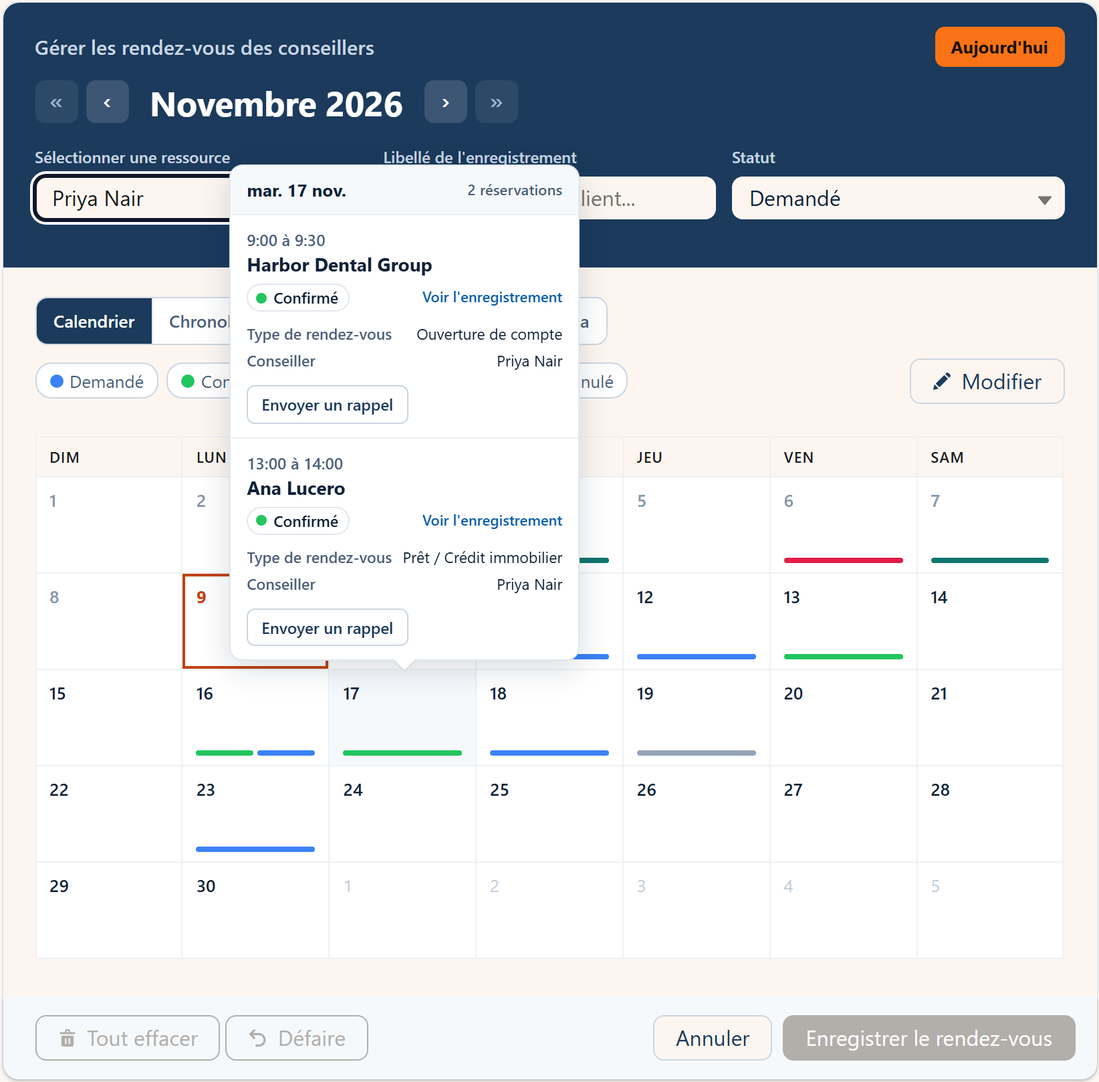
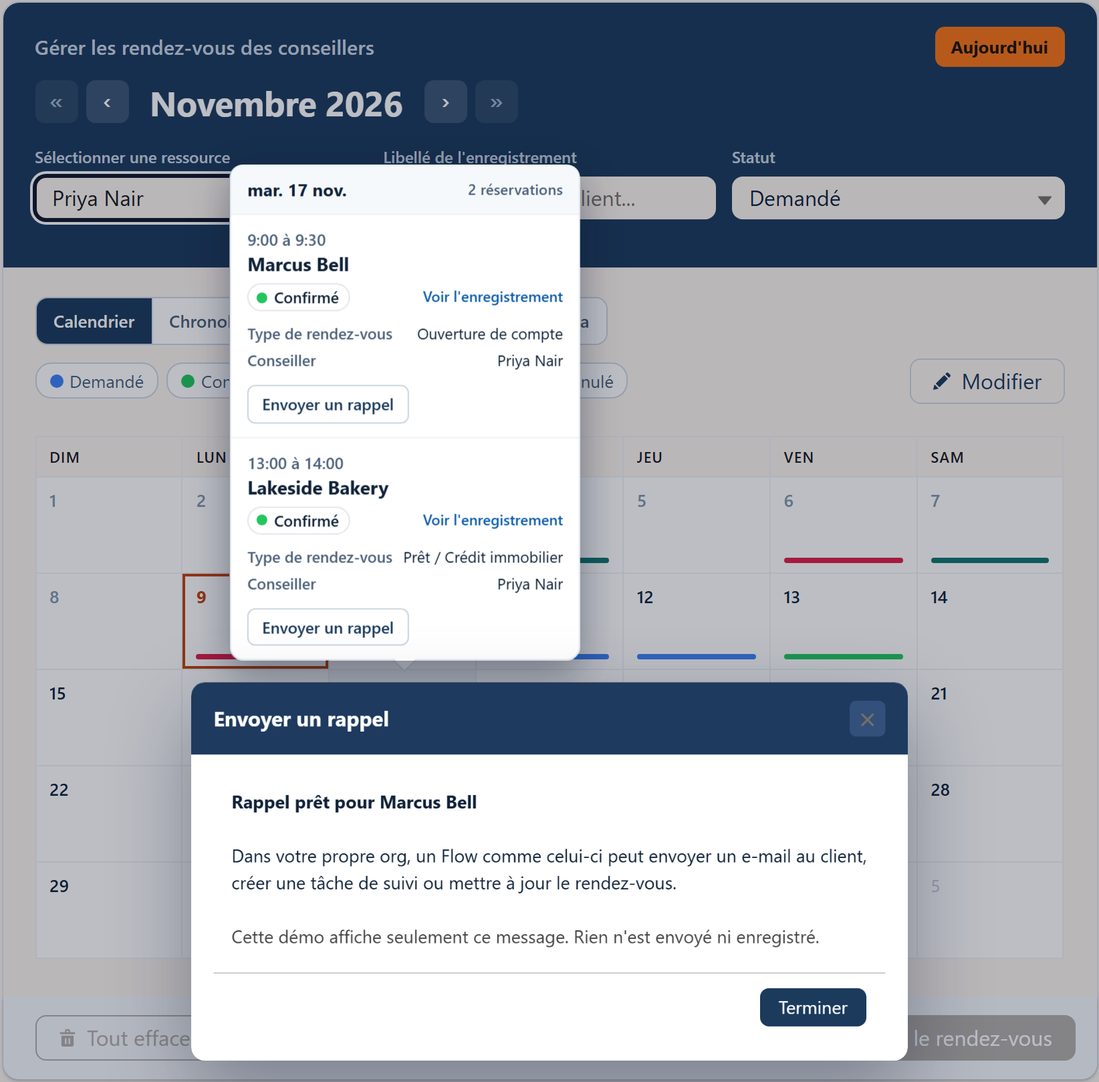
Home carousel: Custom buttons slide shows the button and the pop-up it opens
Slide 7 now shows the hover card's Send a reminder buttons and, below it, the
pop-up running the demo Flow, in all 9 languages with no English text. The alt
text and image caption mention the pop-up (all 9 languages).

diff --git a/index.html b/index.html
@@ -125,7 +125,7 @@
             {"@type": "ImageObject", "contentUrl": "https://multidatepick.com/images/views/salesforce-calendar-booking-form.png", "caption": "Salesforce booking form pop-up on a public booking page: after a guest picks an advisor, a day and a free time, Request Appointment opens a form for client name, email, meeting type and the topic to discuss", "creditText": "MultiDatePick", "creator": {"@type": "Organization", "name": "MultiDatePick"}},
             {"@type": "ImageObject", "contentUrl": "https://multidatepick.com/images/views/salesforce-calendar-edit-mode.png", "caption": "MultiDatePick Edit Mode on a Salesforce booking calendar: three appointments on a busy day picked in the panel, with controls to change their status, date, time or advisor together", "creditText": "MultiDatePick", "creator": {"@type": "Organization", "name": "MultiDatePick"}},
             {"@type": "ImageObject", "contentUrl": "https://multidatepick.com/images/views/salesforce-calendar-custom-branding.png", "caption": "Salesforce booking calendar with custom branding: the ACME Financial logo and name on a top band over a downtown skyline photo, green and amber brand colors, and an advisor's month of bookings", "creditText": "MultiDatePick", "creator": {"@type": "Organization", "name": "MultiDatePick"}},
-            {"@type": "ImageObject", "contentUrl": "https://multidatepick.com/images/views/salesforce-calendar-custom-buttons.png", "caption": "Salesforce booking calendar with a custom button on each booking: the hover card for an advisor's busy day lists two client appointments, each with a Send a reminder button that runs a Flow the admin picked in the Setup Wizard", "creditText": "MultiDatePick", "creator": {"@type": "Organization", "name": "MultiDatePick"}},
+            {"@type": "ImageObject", "contentUrl": "https://multidatepick.com/images/views/salesforce-calendar-custom-buttons.png", "caption": "Salesforce booking calendar with a custom button on each booking: the hover card for an advisor's busy day lists two client appointments, each with a Send a reminder button, and the pop-up it opens running the Flow the admin picked in the Setup Wizard", "creditText": "MultiDatePick", "creator": {"@type": "Organization", "name": "MultiDatePick"}},
             {"@type": "ImageObject", "contentUrl": "https://multidatepick.com/images/components/salesforce-multi-date-picker-demo.gif", "thumbnailUrl": "https://multidatepick.com/images/components/salesforce-multi-date-picker-demo-poster.png", "caption": "Animated demo of the MultiDatePick Dates component in Salesforce: naming a time-off request, dragging across three days of Thanksgiving week, adding the Friday with one click, and saving all four days at once", "creditText": "MultiDatePick", "creator": {"@type": "Organization", "name": "MultiDatePick"}},
             {"@type": "ImageObject", "contentUrl": "https://multidatepick.com/images/components/salesforce-date-time-scheduling-demo.gif", "thumbnailUrl": "https://multidatepick.com/images/components/salesforce-date-time-scheduling-demo-poster.png", "caption": "Animated demo of the MultiDatePick Dates & Times component in Salesforce: naming a New Hire Onboarding schedule, dragging across Monday to Thursday, dragging 09:00 to 12:00 in the shared time grid, and saving one shift per day", "creditText": "MultiDatePick", "creator": {"@type": "Organization", "name": "MultiDatePick"}},
             {"@type": "ImageObject", "contentUrl": "https://multidatepick.com/images/multidatepick-booking-demo.gif", "thumbnailUrl": "https://multidatepick.com/images/multidatepick-booking-demo-poster.png", "caption": "Salesforce resource booking demo: choosing a projector, picking a day and two open 30 minute slots, and booking them", "creditText": "MultiDatePick", "creator": {"@type": "Organization", "name": "MultiDatePick"}},
@@ -405,7 +405,7 @@
                                 <p class="mdp-carousel__caption"><strong>Edit Mode</strong>: pick several bookings and change their status, date, time or advisor in one step.</p>
                             </li>
                             <li class="mdp-carousel__slide" aria-roledescription="slide" aria-label="7 of 8: Custom buttons">
-                                <img src="images/views/salesforce-calendar-custom-buttons.png" alt="Salesforce booking calendar with a custom button on each booking: the hover card for an advisor's busy day lists two client appointments, each with a Send a reminder button that runs a Flow the admin picked in the Setup Wizard" width="1644" height="1618" loading="lazy" decoding="async" data-zoomable>
+                                <img src="images/views/salesforce-calendar-custom-buttons.png" alt="Salesforce booking calendar with a custom button on each booking: the hover card for an advisor's busy day lists two client appointments, each with a Send a reminder button, and the pop-up it opens running the Flow the admin picked in the Setup Wizard" width="1644" height="1618" loading="lazy" decoding="async" data-zoomable>
                                 <p class="mdp-carousel__caption"><strong>Custom buttons</strong>: run your own Flow from any booking with a button you add in the Setup Wizard, no code needed.</p>
                             </li>
                             <li class="mdp-carousel__slide" aria-roledescription="slide" aria-label="8 of 8: Utilization">

diff --git a/hi/index.html b/hi/index.html
@@ -247,7 +247,7 @@
             {
                 "@type": "ImageObject",
                 "contentUrl": "https://multidatepick.com/images/hi/views/salesforce-calendar-custom-buttons.png",
-                "caption": "कस्टम बटन वाला Salesforce बुकिंग कैलेंडर: एक व्यस्त दिन के होवर कार्ड में क्लाइंट के दो अपॉइंटमेंट, हर एक पर रिमाइंडर भेजें बटन जो Setup Wizard में चुना गया Flow चलाता है",
+                "caption": "कस्टम बटन वाला Salesforce बुकिंग कैलेंडर: एक व्यस्त दिन के होवर कार्ड में क्लाइंट के दो अपॉइंटमेंट, हर एक पर रिमाइंडर भेजें बटन, और उसे दबाने पर खुलने वाला पॉप-अप Setup Wizard में चुना गया Flow चलाता है",
                 "creditText": "MultiDatePick",
                 "creator": {
                     "@type": "Organization",
@@ -687,7 +687,7 @@
                                 <p class="mdp-carousel__caption"><strong>संपादन मोड</strong>: कई बुकिंग चुनें और उनकी स्थिति, तारीख, समय या सलाहकार एक ही कदम में बदलें।</p>
                             </li>
                             <li class="mdp-carousel__slide" aria-roledescription="स्लाइड" aria-label="8 में से 7: कस्टम बटन">
-                                <img src="/images/hi/views/salesforce-calendar-custom-buttons.png" alt="कस्टम बटन वाला Salesforce बुकिंग कैलेंडर: एक व्यस्त दिन के होवर कार्ड में क्लाइंट के दो अपॉइंटमेंट, हर एक पर रिमाइंडर भेजें बटन जो Setup Wizard में चुना गया Flow चलाता है" width="1644" height="1618" loading="lazy" decoding="async" data-zoomable>
+                                <img src="/images/hi/views/salesforce-calendar-custom-buttons.png" alt="कस्टम बटन वाला Salesforce बुकिंग कैलेंडर: एक व्यस्त दिन के होवर कार्ड में क्लाइंट के दो अपॉइंटमेंट, हर एक पर रिमाइंडर भेजें बटन, और उसे दबाने पर खुलने वाला पॉप-अप Setup Wizard में चुना गया Flow चलाता है" width="1644" height="1618" loading="lazy" decoding="async" data-zoomable>
                                 <p class="mdp-carousel__caption"><strong>कस्टम बटन</strong>: किसी भी बुकिंग से अपना Flow चलाएँ, Setup Wizard में जोड़े गए बटन से, बिना कोड।</p>
                             </li>
                             <li class="mdp-carousel__slide" aria-roledescription="स्लाइड" aria-label="8 में से 8: उपयोग">

diff --git a/ja/index.html b/ja/index.html
@@ -247,7 +247,7 @@
             {
                 "@type": "ImageObject",
                 "contentUrl": "https://multidatepick.com/images/ja/views/salesforce-calendar-custom-buttons.png",
-                "caption": "カスタムボタン付きの Salesforce 予約カレンダー: 予定の多い日のホバーカードに 2 件のクライアント予約が並び、それぞれにセットアップウィザードで選んだフローを実行する「リマインダーを送信」ボタンがある",
+                "caption": "カスタムボタン付きの Salesforce 予約カレンダー: 予定の多い日のホバーカードに 2 件のクライアント予約が並び、それぞれに「リマインダーを送信」ボタンがある。押すとポップアップが開き、セットアップウィザードで選んだフローを実行する",
                 "creditText": "MultiDatePick",
                 "creator": {
                     "@type": "Organization",
@@ -687,7 +687,7 @@
                                 <p class="mdp-carousel__caption"><strong>編集モード</strong>: 複数の予約を選び、状況、日付、時刻、アドバイザーを一度にまとめて変更できます。</p>
                             </li>
                             <li class="mdp-carousel__slide" aria-roledescription="スライド" aria-label="7/8: カスタムボタン">
-                                <img src="/images/ja/views/salesforce-calendar-custom-buttons.png" alt="カスタムボタン付きの Salesforce 予約カレンダー: 予定の多い日のホバーカードに 2 件のクライアント予約が並び、それぞれにセットアップウィザードで選んだフローを実行する「リマインダーを送信」ボタンがある" width="1644" height="1618" loading="lazy" decoding="async" data-zoomable>
+                                <img src="/images/ja/views/salesforce-calendar-custom-buttons.png" alt="カスタムボタン付きの Salesforce 予約カレンダー: 予定の多い日のホバーカードに 2 件のクライアント予約が並び、それぞれに「リマインダーを送信」ボタンがある。押すとポップアップが開き、セットアップウィザードで選んだフローを実行する" width="1644" height="1618" loading="lazy" decoding="async" data-zoomable>
                                 <p class="mdp-carousel__caption"><strong>カスタムボタン</strong>: どの予約からでも自社のフローを実行。ボタンはセットアップウィザードからノーコードで追加できます。</p>
                             </li>
                             <li class="mdp-carousel__slide" aria-roledescription="スライド" aria-label="8/8: 稼働率">

diff --git a/fr/index.html b/fr/index.html
@@ -247,7 +247,7 @@
             {
                 "@type": "ImageObject",
                 "contentUrl": "https://multidatepick.com/images/fr/views/calendrier-salesforce-boutons-personnalises.png",
-                "caption": "Calendrier de réservation Salesforce avec des boutons personnalisés sur chaque rendez-vous : la carte au survol d'une journée chargée affiche deux rendez-vous clients, chacun avec un bouton Envoyer un rappel qui lance un flux choisi dans l'assistant de configuration",
+                "caption": "Calendrier de réservation Salesforce avec des boutons personnalisés sur chaque rendez-vous : la carte au survol d'une journée chargée affiche deux rendez-vous clients, chacun avec un bouton Envoyer un rappel, et la fenêtre qu'il ouvre lance le flux choisi dans l'assistant de configuration",
                 "creditText": "MultiDatePick",
                 "creator": {
                     "@type": "Organization",
@@ -687,7 +687,7 @@
                                 <p class="mdp-carousel__caption"><strong>Mode édition</strong> : sélectionnez plusieurs réservations et changez leur statut, leur date, leur heure ou leur conseiller en une seule fois.</p>
                             </li>
                             <li class="mdp-carousel__slide" aria-roledescription="diapositive" aria-label="7 sur 8 : Boutons personnalisés">
-                                <img src="/images/fr/views/calendrier-salesforce-boutons-personnalises.png" alt="Calendrier de réservation Salesforce avec des boutons personnalisés sur chaque rendez-vous : la carte au survol d'une journée chargée affiche deux rendez-vous clients, chacun avec un bouton Envoyer un rappel qui lance un flux choisi dans l'assistant de configuration" width="1644" height="1618" loading="lazy" decoding="async" data-zoomable>
+                                <img src="/images/fr/views/calendrier-salesforce-boutons-personnalises.png" alt="Calendrier de réservation Salesforce avec des boutons personnalisés sur chaque rendez-vous : la carte au survol d'une journée chargée affiche deux rendez-vous clients, chacun avec un bouton Envoyer un rappel, et la fenêtre qu'il ouvre lance le flux choisi dans l'assistant de configuration" width="1644" height="1618" loading="lazy" decoding="async" data-zoomable>
                                 <p class="mdp-carousel__caption"><strong>Boutons personnalisés</strong> : lancez votre propre flux depuis n'importe quelle réservation, avec un bouton ajouté dans l'assistant de configuration, sans code.</p>
                             </li>
                             <li class="mdp-carousel__slide" aria-roledescription="diapositive" aria-label="8 sur 8 : Occupation">

diff --git a/pt-br/index.html b/pt-br/index.html
@@ -247,7 +247,7 @@
             {
                 "@type": "ImageObject",
                 "contentUrl": "https://multidatepick.com/images/pt-br/views/calendario-salesforce-botoes-personalizados.png",
-                "caption": "Calendário de agendamentos do Salesforce com botões personalizados em cada agendamento: o cartão ao passar o mouse de um dia cheio mostra dois atendimentos de clientes, cada um com um botão Enviar lembrete que executa um Flow escolhido no Assistente de Configuração",
+                "caption": "Calendário de agendamentos do Salesforce com botões personalizados em cada agendamento: o cartão ao passar o mouse de um dia cheio mostra dois atendimentos de clientes, cada um com um botão Enviar lembrete, e a janela que ele abre executa o Flow escolhido no Assistente de Configuração",
                 "creditText": "MultiDatePick",
                 "creator": {
                     "@type": "Organization",
@@ -687,7 +687,7 @@
                                 <p class="mdp-carousel__caption"><strong>Modo de Edição</strong>: escolha várias reservas e altere status, data, horário ou consultor de uma só vez.</p>
                             </li>
                             <li class="mdp-carousel__slide" aria-roledescription="slide" aria-label="7 de 8: Botões personalizados">
-                                <img src="/images/pt-br/views/calendario-salesforce-botoes-personalizados.png" alt="Calendário de agendamentos do Salesforce com botões personalizados em cada agendamento: o cartão ao passar o mouse de um dia cheio mostra dois atendimentos de clientes, cada um com um botão Enviar lembrete que executa um Flow escolhido no Assistente de Configuração" width="1644" height="1618" loading="lazy" decoding="async" data-zoomable>
+                                <img src="/images/pt-br/views/calendario-salesforce-botoes-personalizados.png" alt="Calendário de agendamentos do Salesforce com botões personalizados em cada agendamento: o cartão ao passar o mouse de um dia cheio mostra dois atendimentos de clientes, cada um com um botão Enviar lembrete, e a janela que ele abre executa o Flow escolhido no Assistente de Configuração" width="1644" height="1618" loading="lazy" decoding="async" data-zoomable>
                                 <p class="mdp-carousel__caption"><strong>Botões personalizados</strong>: execute seu próprio Flow a partir de qualquer agendamento, com um botão que você adiciona no Assistente de Configuração, sem código.</p>
                             </li>
                             <li class="mdp-carousel__slide" aria-roledescription="slide" aria-label="8 de 8: Ocupação">

diff --git a/it/index.html b/it/index.html
@@ -247,7 +247,7 @@
             {
                 "@type": "ImageObject",
                 "contentUrl": "https://multidatepick.com/images/it/views/calendario-salesforce-pulsanti-personalizzati.png",
-                "caption": "Calendario delle prenotazioni Salesforce con pulsanti personalizzati su ogni appuntamento: la scheda al passaggio di una giornata piena mostra due appuntamenti con i clienti, ognuno con un pulsante Invia promemoria che avvia un flusso scelto nella configurazione guidata",
+                "caption": "Calendario delle prenotazioni Salesforce con pulsanti personalizzati su ogni appuntamento: la scheda al passaggio di una giornata piena mostra due appuntamenti con i clienti, ognuno con un pulsante Invia promemoria, e la finestra che apre avvia il flusso scelto nella configurazione guidata",
                 "creditText": "MultiDatePick",
                 "creator": {
                     "@type": "Organization",
@@ -687,7 +687,7 @@
                                 <p class="mdp-carousel__caption"><strong>Modalità modifica</strong>: scegli più prenotazioni e cambiane stato, data, orario o consulente in un solo passaggio.</p>
                             </li>
                             <li class="mdp-carousel__slide" aria-roledescription="slide" aria-label="7 di 8: Pulsanti personalizzati">
-                                <img src="/images/it/views/calendario-salesforce-pulsanti-personalizzati.png" alt="Calendario delle prenotazioni Salesforce con pulsanti personalizzati su ogni appuntamento: la scheda al passaggio di una giornata piena mostra due appuntamenti con i clienti, ognuno con un pulsante Invia promemoria che avvia un flusso scelto nella configurazione guidata" width="1644" height="1618" loading="lazy" decoding="async" data-zoomable>
+                                <img src="/images/it/views/calendario-salesforce-pulsanti-personalizzati.png" alt="Calendario delle prenotazioni Salesforce con pulsanti personalizzati su ogni appuntamento: la scheda al passaggio di una giornata piena mostra due appuntamenti con i clienti, ognuno con un pulsante Invia promemoria, e la finestra che apre avvia il flusso scelto nella configurazione guidata" width="1644" height="1618" loading="lazy" decoding="async" data-zoomable>
                                 <p class="mdp-carousel__caption"><strong>Pulsanti personalizzati</strong>: avvia il tuo flusso da qualsiasi prenotazione con un pulsante che aggiungi nella configurazione guidata, senza codice.</p>
                             </li>
                             <li class="mdp-carousel__slide" aria-roledescription="slide" aria-label="8 di 8: Utilizzo">

diff --git a/es/index.html b/es/index.html
@@ -247,7 +247,7 @@
             {
                 "@type": "ImageObject",
                 "contentUrl": "https://multidatepick.com/images/es/views/calendario-salesforce-botones-personalizados.png",
-                "caption": "Calendario de reservas de Salesforce con botones personalizados en cada cita: la tarjeta emergente de un día con mucha agenda muestra dos citas de clientes, cada una con un botón Enviar recordatorio que ejecuta un flujo elegido en el asistente de configuración",
+                "caption": "Calendario de reservas de Salesforce con botones personalizados en cada cita: la tarjeta emergente de un día con mucha agenda muestra dos citas de clientes, cada una con un botón Enviar recordatorio, y la ventana que abre ejecuta el flujo elegido en el asistente de configuración",
                 "creditText": "MultiDatePick",
                 "creator": {
                     "@type": "Organization",
@@ -687,7 +687,7 @@
                                 <p class="mdp-carousel__caption"><strong>Modo edición</strong>: elige varias reservas y cambia su estado, fecha, hora o asesor en un solo paso.</p>
                             </li>
                             <li class="mdp-carousel__slide" aria-roledescription="diapositiva" aria-label="7 de 8: Botones personalizados">
-                                <img src="/images/es/views/calendario-salesforce-botones-personalizados.png" alt="Calendario de reservas de Salesforce con botones personalizados en cada cita: la tarjeta emergente de un día con mucha agenda muestra dos citas de clientes, cada una con un botón Enviar recordatorio que ejecuta un flujo elegido en el asistente de configuración" width="1644" height="1618" loading="lazy" decoding="async" data-zoomable>
+                                <img src="/images/es/views/calendario-salesforce-botones-personalizados.png" alt="Calendario de reservas de Salesforce con botones personalizados en cada cita: la tarjeta emergente de un día con mucha agenda muestra dos citas de clientes, cada una con un botón Enviar recordatorio, y la ventana que abre ejecuta el flujo elegido en el asistente de configuración" width="1644" height="1618" loading="lazy" decoding="async" data-zoomable>
                                 <p class="mdp-carousel__caption"><strong>Botones personalizados</strong>: ejecuta tu propio flujo desde cualquier reserva con un botón que agregas en el asistente de configuración, sin código.</p>
                             </li>
                             <li class="mdp-carousel__slide" aria-roledescription="diapositiva" aria-label="8 de 8: Ocupación">

diff --git a/de/index.html b/de/index.html
@@ -247,7 +247,7 @@
             {
                 "@type": "ImageObject",
                 "contentUrl": "https://multidatepick.com/images/de/views/salesforce-kalender-eigene-schaltflaechen.png",
-                "caption": "Salesforce-Buchungskalender mit eigenen Schaltflächen an jeder Buchung: Die Hover-Karte eines vollen Beratertags zeigt zwei Kundentermine, jeweils mit der Schaltfläche „Erinnerung senden“, die einen im Einrichtungsassistenten gewählten Flow startet",
+                "caption": "Salesforce-Buchungskalender mit eigenen Schaltflächen an jeder Buchung: Die Hover-Karte eines vollen Beratertags zeigt zwei Kundentermine, jeweils mit der Schaltfläche „Erinnerung senden“, und das Pop-up darunter startet den im Einrichtungsassistenten gewählten Flow",
                 "creditText": "MultiDatePick",
                 "creator": {
                     "@type": "Organization",
@@ -687,7 +687,7 @@
                                 <p class="mdp-carousel__caption"><strong>Bearbeitungsmodus</strong>: mehrere Buchungen wählen und Status, Datum, Uhrzeit oder Berater in einem Schritt ändern.</p>
                             </li>
                             <li class="mdp-carousel__slide" aria-roledescription="Folie" aria-label="7 von 8: Eigene Schaltflächen">
-                                <img src="/images/de/views/salesforce-kalender-eigene-schaltflaechen.png" alt="Salesforce-Buchungskalender mit eigenen Schaltflächen an jeder Buchung: Die Hover-Karte eines vollen Beratertags zeigt zwei Kundentermine, jeweils mit der Schaltfläche „Erinnerung senden“, die einen im Einrichtungsassistenten gewählten Flow startet" width="1644" height="1618" loading="lazy" decoding="async" data-zoomable>
+                                <img src="/images/de/views/salesforce-kalender-eigene-schaltflaechen.png" alt="Salesforce-Buchungskalender mit eigenen Schaltflächen an jeder Buchung: Die Hover-Karte eines vollen Beratertags zeigt zwei Kundentermine, jeweils mit der Schaltfläche „Erinnerung senden“, und das Pop-up darunter startet den im Einrichtungsassistenten gewählten Flow" width="1644" height="1618" loading="lazy" decoding="async" data-zoomable>
                                 <p class="mdp-carousel__caption"><strong>Eigene Schaltflächen</strong>: Starten Sie Ihren eigenen Flow direkt aus jeder Buchung, mit einer Schaltfläche aus dem Einrichtungsassistenten und ganz ohne Code.</p>
                             </li>
                             <li class="mdp-carousel__slide" aria-roledescription="Folie" aria-label="8 von 8: Auslastung">

diff --git a/zh/index.html b/zh/index.html
@@ -247,7 +247,7 @@
             {
                 "@type": "ImageObject",
                 "contentUrl": "https://multidatepick.com/images/zh/views/salesforce-calendar-custom-buttons.png",
-                "caption": "带自定义按钮的 Salesforce 预订日历：繁忙一天的悬停卡片列出两个客户预约，每个预约都有一个“发送提醒”按钮，用于运行在设置向导中选定的 Flow",
+                "caption": "带自定义按钮的 Salesforce 预订日历：繁忙一天的悬停卡片列出两个客户预约，每个预约都有一个“发送提醒”按钮，点击后弹出窗口，运行在设置向导中选定的 Flow",
                 "creditText": "MultiDatePick",
                 "creator": {
                     "@type": "Organization",
@@ -687,7 +687,7 @@
                                 <p class="mdp-carousel__caption"><strong>编辑模式</strong>：选中多个预订，一步更改它们的状态、日期、时间或顾问。</p>
                             </li>
                             <li class="mdp-carousel__slide" aria-roledescription="幻灯片" aria-label="第 7 张，共 8 张：自定义按钮">
-                                <img src="/images/zh/views/salesforce-calendar-custom-buttons.png" alt="带自定义按钮的 Salesforce 预订日历：繁忙一天的悬停卡片列出两个客户预约，每个预约都有一个“发送提醒”按钮，用于运行在设置向导中选定的 Flow" width="1644" height="1618" loading="lazy" decoding="async" data-zoomable>
+                                <img src="/images/zh/views/salesforce-calendar-custom-buttons.png" alt="带自定义按钮的 Salesforce 预订日历：繁忙一天的悬停卡片列出两个客户预约，每个预约都有一个“发送提醒”按钮，点击后弹出窗口，运行在设置向导中选定的 Flow" width="1644" height="1618" loading="lazy" decoding="async" data-zoomable>
                                 <p class="mdp-carousel__caption"><strong>自定义按钮</strong>：在任意预约上运行您自己的 Flow，按钮在设置向导中添加，无需代码。</p>
                             </li>
                             <li class="mdp-carousel__slide" aria-roledescription="幻灯片" aria-label="第 8 张，共 8 张：使用率">
